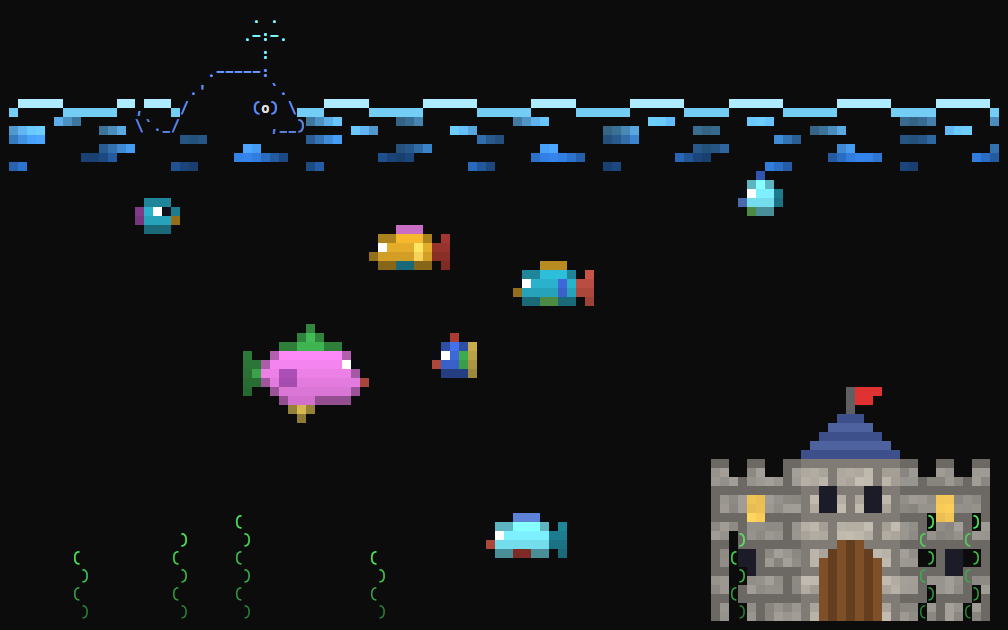
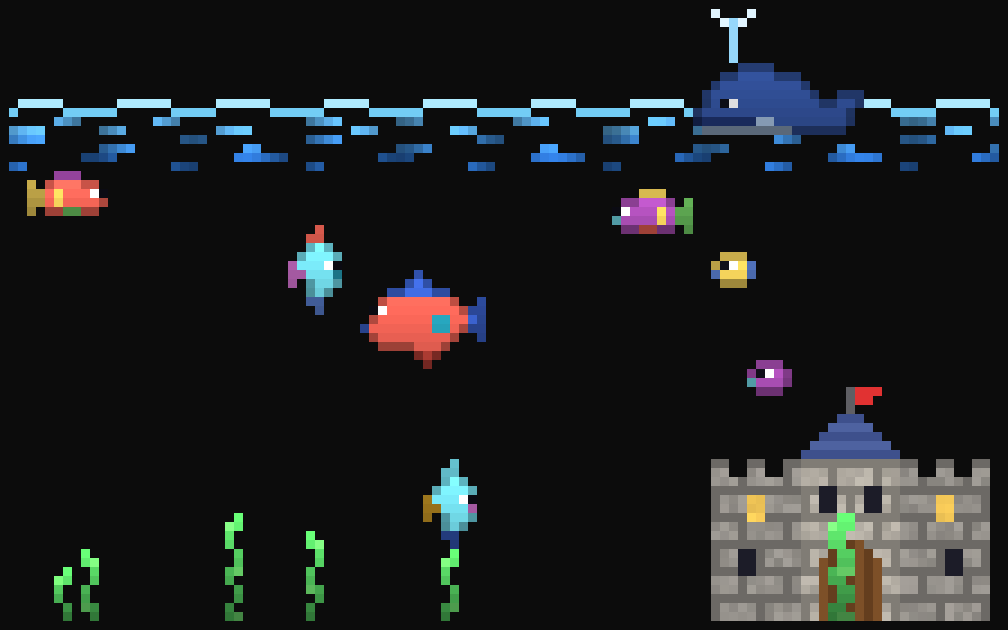
docs: ANSI mode is now all pixel art, with a gallery of visitors

diff --git a/README.md b/README.md
@@ -76,11 +76,12 @@ Resizing the terminal also rebuilds the scene. The mode is kept across redraws a
 Press `a` to switch from the original ASCII art to a truecolor look. The water stays
 transparent: like in ASCII mode, the terminal's own background shows through.
 
-- Fish, the castle and the water surface are pixel art drawn with half blocks (`▀`, `▄`), two
-  pixels per cell. Each piece takes up exactly the cells of its ASCII version, so the animation
-  and collisions don't change.
-- Everything else keeps its ASCII art, with softer truecolor shades, lit seaweed tips and Unicode
-  bubbles (`·` `◦` `○`) and fishing line (`│`).
+- Everything is pixel art drawn with half blocks (`▀`, `▄`), two pixels per cell: fish, castle,
+  seaweed, the rolling water surface, and all the visitors (ship, whale and its spout, sea
+  monster, big fish, shark and its splat, fishhook, swan, ducks, dolphins). Each sprite takes up
+  exactly the cells of its ASCII version, so the animation and collisions don't change.
+- Two things stay as characters, because a whole cell would be too coarse for them: the
+  bubbles (`·` `◦` `○`) and the fishing line (`│`).
 
 It needs a terminal with 24-bit color and a font with block characters: Windows Terminal,
 iTerm2, kitty, WezTerm, Alacritty, GNOME Terminal and most modern terminals work.
@@ -91,7 +92,17 @@ iTerm2, kitty, WezTerm, Alacritty, GNOME Terminal and most modern terminals work
 | ![shark, ASCII mode](docs/screenshots/shark-ascii.png) | ![shark, ANSI mode](docs/screenshots/shark-ansi.png) |
 | ![ship over a wallpaper, ASCII mode](docs/screenshots/transparent-ascii.png) | ![ship over a wallpaper, ANSI mode](docs/screenshots/transparent-ansi.png) |
 
-The last row uses a colorful background to show the transparent water. Regenerate the
+The last row uses a colorful background to show the transparent water.
+
+Every visitor in ANSI mode:
+
+| | | |
+|---|---|---|
+| ![ship](docs/screenshots/gallery-ship.png) | ![whale](docs/screenshots/gallery-whale.png) | ![sea monster](docs/screenshots/gallery-monster.png) |
+| ![big fish](docs/screenshots/gallery-big_fish.png) | ![shark](docs/screenshots/gallery-shark.png) | ![fishhook](docs/screenshots/gallery-fishhook.png) |
+| ![swan](docs/screenshots/gallery-swan.png) | ![ducks](docs/screenshots/gallery-ducks.png) | ![dolphins](docs/screenshots/gallery-dolphins.png) |
+
+Regenerate the
 screenshots with `scripts/screenshots.sh`; it needs a Chromium-based browser such as Edge or Chrome.
 
 To always spawn the same random object (handy for debugging), set `FISHIES_OBJECT` to one of
